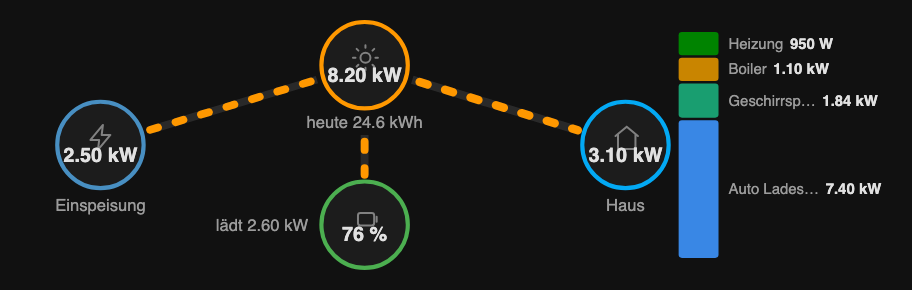
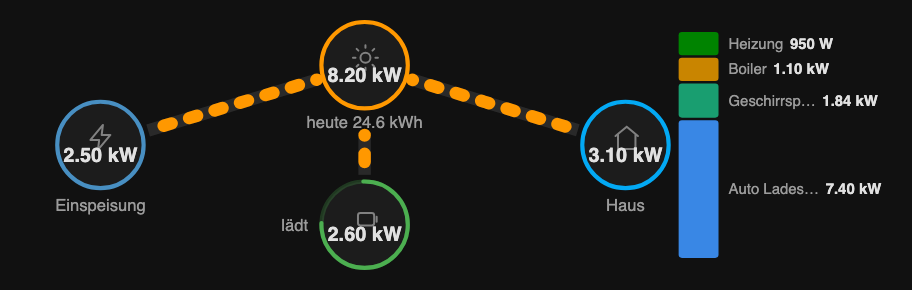
v0.4.0: battery SOC ring gauge, PV auto-dim, configurable line boldness
- Battery ring is now the SOC gauge: arc drains counter-clockwise from
  12 o'clock over a faint base track; center shows charge/discharge W,
  side label just the direction word — no percentage displayed
- PV node dims to 30% below pv_threshold (default 50 W), daily yield
  stays readable
- New line_boldness option (1-5, default 2): max width 6+(b-1)*1.5 px,
  width and dash speed saturate at 5000/b W (default is bolder than the
  old fixed curve)
- flow_threshold (default 25 W) and pv_threshold now config options
- All four new options in the GUI editor

Changed region(s): [[0.2149, 0.4345, 0.4605, 0.8379], [0.4298, 0.2483, 0.6447, 0.4655], [0.1535, 0.2483, 0.3684, 0.4655]]

diff --git a/compact-power-flow-card.js b/compact-power-flow-card.js
@@ -31,14 +31,21 @@
  *                          include: [{entity_id: "sensor.*_pwr*"}]
  *                          exclude: [{state: "< 1"}]
  *   max_consumers:       optional; 1-6 segments in the column (default 4)
+ *   line_boldness:       optional; 1-5 (default 2) — how aggressively flow
+ *                        line thickness (and dash speed) react to power:
+ *                        max width 6+(b-1)*1.5 px, saturating at 5000/b W
+ *   flow_threshold:      optional; W below which a flow counts as idle
+ *                        (default 25; also gates the battery direction word)
+ *   pv_threshold:        optional; W below which the PV node dims (default 50)
  *   labels:              optional map to override labels, e.g.
  *     daily_yield: "today" / grid_import: "import"
+ *
+ * The battery ring doubles as the SOC gauge: full circle = 100 %, the arc
+ * drains counter-clockwise from 12 o'clock; the ring center shows the
+ * current charge/discharge power (no percentage is displayed).
  */
 
-const VERSION = "0.3.1";
-
-// Flows below this many watts count as "not flowing".
-const THRESHOLD = 25;
+const VERSION = "0.4.0";
 
 // Consumer-column palette, shared with power-pie-card (CVD-safe hue order —
 // do not reorder).
@@ -208,6 +215,15 @@ class CompactPowerFlowCard extends HTMLElement {
     this._config.max_consumers = Math.min(
       Math.max(Number.isFinite(config.max_consumers) ? config.max_consumers : 4, 1), 6
     );
+    this._config.line_boldness = Math.min(
+      Math.max(Number.isFinite(config.line_boldness) ? config.line_boldness : 2, 1), 5
+    );
+    this._config.flow_threshold =
+      Number.isFinite(config.flow_threshold) && config.flow_threshold >= 0
+        ? config.flow_threshold : 25;
+    this._config.pv_threshold =
+      Number.isFinite(config.pv_threshold) && config.pv_threshold >= 0
+        ? config.pv_threshold : 50;
     this._labels = { ...DEFAULT_LABELS, ...(config.labels || {}) };
     const f = config.filter || {};
     this._include = (f.include || []).map(compileRule);
@@ -297,7 +313,10 @@ class CompactPowerFlowCard extends HTMLElement {
       .map(
         ([k, n]) => `
         <g class="node" id="node-${k}" transform="translate(${n.cx},${n.cy})">
-          <circle class="ring ${k}" r="${n.r}"/>
+          ${k === "battery"
+            ? `<circle class="ring battery base" r="${n.r}"/>
+          <circle class="ring battery arc" id="soc-arc" r="${n.r}" pathLength="100" transform="rotate(-90)"/>`
+            : `<circle class="ring ${k}" r="${n.r}"/>`}
           <path class="icon" d="${ICONS[k]}" transform="translate(-9,-14) scale(0.75)"/>
           <text class="value" id="val-${k}" y="10" text-anchor="middle"></text>
           <text class="sub" id="sub-${k}" ${SUB_POS[k]}></text>
@@ -326,6 +345,11 @@ class CompactPowerFlowCard extends HTMLElement {
         .ring.grid { stroke: var(--energy-grid-consumption-color, #488fc2); }
         .ring.house { stroke: var(--primary-color, #03a9f4); }
         .ring.battery { stroke: var(--energy-battery-out-color, #4caf50); }
+        .ring.battery.base { stroke-opacity: .25; }
+        .ring.battery.arc { fill: none; stroke-linecap: round;
+                            transition: stroke-dasharray .3s, opacity .3s; }
+        .node .ring, .node .icon, .node .value { transition: opacity .3s; }
+        .node.idle .ring, .node.idle .icon, .node.idle .value { opacity: .3; }
         .icon { fill: none; stroke: var(--secondary-text-color, #727272);
                 stroke-width: 1.6; stroke-linecap: round; stroke-linejoin: round;
                 opacity: .8; transform-box: fill-box; }
@@ -409,21 +433,26 @@ class CompactPowerFlowCard extends HTMLElement {
 
   _update(consumers, dark) {
     const $ = (id) => this.shadowRoot.getElementById(id);
+    const thr = this._config.flow_threshold;
+    // boldness b: max width 6..12px, saturation power 5kW..1kW
+    const b = this._config.line_boldness;
+    const maxW = 6 + (b - 1) * 1.5;
+    const refP = 5000 / b;
     const flows = {};
     for (const f of FLOW_DEFS) {
       const w = this._num(f.key) || 0;
       flows[f.key] = w;
       const flowEl = $(`flow-${f.key}`);
       const railEl = $(`rail-${f.key}`);
-      if (w > THRESHOLD) {
-        // thickness ~ sqrt(power), 1.5px at the threshold up to 6px at >= 5 kW
-        const width = 1.5 + 4.5 * Math.sqrt(Math.min(1, w / 5000));
+      if (w > thr) {
+        // thickness ~ sqrt(power), 1.5px at the threshold up to maxW at refP
+        const width = 1.5 + (maxW - 1.5) * Math.sqrt(Math.min(1, w / refP));
         flowEl.classList.add("active");
         railEl.classList.add("active");
         flowEl.style.strokeWidth = width.toFixed(2);
         railEl.style.strokeWidth = width.toFixed(2);
-        // faster dashes for bigger flows: 4s at ~50 W down to 0.8s at >= 5 kW
-        const dur = Math.max(0.8, 4 - 3.2 * Math.min(1, w / 5000));
+        // faster dashes for bigger flows, saturating together with thickness
+        const dur = Math.max(0.8, 4 - 3.2 * Math.min(1, w / refP));
         flowEl.style.animationDuration = `${dur.toFixed(2)}s`;
       } else {
         flowEl.classList.remove("active");
@@ -447,11 +476,18 @@ class CompactPowerFlowCard extends HTMLElement {
       this._num("pv_to_grid") > gridNet
         ? this._labels.grid_export
         : this._labels.grid_import;
-    $("val-battery").textContent = soc === null ? "–" : `${Math.round(soc)} %`;
+    $("val-battery").textContent = this._fmtW(Math.abs(batNet));
     $("sub-battery").textContent =
-      Math.abs(batNet) > THRESHOLD
-        ? `${batNet > 0 ? this._labels.battery_charge : this._labels.battery_discharge} ${this._fmtW(Math.abs(batNet))}`
+      Math.abs(batNet) > thr
+        ? (batNet > 0 ? this._labels.battery_charge : this._labels.battery_discharge)
         : this._labels.battery;
+    const socArc = $("soc-arc");
+    const socPct = soc === null ? 0 : Math.min(100, Math.max(0, soc));
+    socArc.style.strokeDasharray = `${socPct.toFixed(1)} ${(100 - socPct).toFixed(1)}`;
+    // a zero-length dash with round caps would still paint a dot at 12 o'clock
+    socArc.style.opacity = socPct > 0 ? "1" : "0";
+
+    $("node-pv").classList.toggle("idle", (pv || 0) < this._config.pv_threshold);
 
     const yieldRaw = this._num("daily_yield");
     if (yieldRaw !== null) {
@@ -501,8 +537,14 @@ const EDITOR_LABELS = {
   filter_min: "Hide consumers below (W)",
   filter: "Consumer filter (advanced — too complex for the simple fields)",
   max_consumers: "Max consumers in the column",
+  line_boldness: "Line boldness (1 subtle … 5 aggressive)",
+  flow_threshold: "Hide flow lines below (W)",
+  pv_threshold: "Dim PV node below (W)",
   labels: "Label overrides (advanced)",
 };
+
+// Simple numeric options managed 1:1 between config and editor form.
+const NUMBER_KEYS = ["max_consumers", "line_boldness", "flow_threshold", "pv_threshold"];
 
 class CompactPowerFlowCardEditor extends HTMLElement {
   constructor() {
@@ -594,6 +636,9 @@ class CompactPowerFlowCardEditor extends HTMLElement {
     }
     schema.push(
       { name: "max_consumers", selector: { number: { min: 1, max: 6, step: 1, mode: "box" } } },
+      { name: "line_boldness", selector: { number: { min: 1, max: 5, step: 0.5, mode: "box" } } },
+      { name: "flow_threshold", selector: { number: { min: 0, step: 1, mode: "box", unit_of_measurement: "W" } } },
+      { name: "pv_threshold", selector: { number: { min: 0, step: 1, mode: "box", unit_of_measurement: "W" } } },
       { name: "labels", selector: { object: {} } },
     );
 
@@ -606,7 +651,7 @@ class CompactPowerFlowCardEditor extends HTMLElement {
     } else if (c.filter !== undefined) {
       data.filter = c.filter;
     }
-    if (c.max_consumers !== undefined) data.max_consumers = c.max_consumers;
+    for (const k of NUMBER_KEYS) if (c[k] !== undefined) data[k] = c[k];
     if (c.labels !== undefined) data.labels = c.labels;
 
     this._form.schema = schema;
@@ -635,8 +680,10 @@ class CompactPowerFlowCardEditor extends HTMLElement {
     } else if (d.filter !== undefined) {
       cfg.filter = d.filter;
     }
-    if (d.max_consumers === undefined || d.max_consumers === "") delete cfg.max_consumers;
-    else cfg.max_consumers = d.max_consumers;
+    for (const k of NUMBER_KEYS) {
+      if (d[k] === undefined || d[k] === "") delete cfg[k];
+      else cfg[k] = d[k];
+    }
     if (d.labels === undefined || (d.labels && !Object.keys(d.labels).length)) delete cfg.labels;
     else cfg.labels = d.labels;
     this._config = cfg;

diff --git a/README.md b/README.md
@@ -17,11 +17,12 @@ roughly a quarter of the space.
   relevant entity actually changes state. Flow animation is pure CSS.
 - **Theme-aware** — uses HA's `--energy-*-color` and text/background theme
   variables with sensible fallbacks; adapts to light/dark automatically.
-- **Lines only when power flows** — flows below 25 W are fully hidden, so an
-  idle system shows just the nodes.
-- Flow **thickness scales with power** (1.5 px near the threshold up to 6 px at
-  ≥ 5 kW, square-root scaled) and dash speed does too (4 s at ~50 W down to
-  0.8 s at ≥ 5 kW).
+- **Lines only when power flows** — flows below `flow_threshold` (default
+  25 W) are fully hidden, so an idle system shows just the nodes.
+- Flow **thickness and dash speed scale with power** (square-root scaled), with
+  a configurable `line_boldness` factor for how aggressively they react.
+- **Battery ring = SOC gauge** — the arc drains counter-clockwise as the
+  battery empties; the center shows charge/discharge power.
 - **Top-consumers column** — auto-discovers your biggest current loads via an
   include/exclude filter ([power-pie-card](https://github.com/stefanschaedeli/power-pie-card)
   semantics), stacks them proportionally, tap opens more-info.
@@ -70,6 +71,10 @@ filter:                                      # optional: enables the consumers c
   exclude:
     - state: "< 1"
 max_consumers: 4                             # optional, 1-6 segments (default 4)
+line_boldness: 2                             # optional, 1-5 (default 2): how hard
+                                             #   line width/speed react to power
+flow_threshold: 25                           # optional, W: flows below are hidden
+pv_threshold: 50                             # optional, W: PV node dims below
 ```
 
 ### Top-consumers column
@@ -104,8 +109,16 @@ labels:
 
 - **Grid node** shows whichever is larger of import/export with the matching
   label.
-- **Battery node** shows SOC inside the ring; charging/discharging power (net
-  of the charge and discharge sensors) appears beside it when above 25 W.
+- **Battery node**: the ring itself is the SOC gauge — full circle at 100 %,
+  the arc drains counter-clockwise from 12 o'clock, the empty part stays as a
+  faint track. The center shows the current charge/discharge power (net of the
+  charge and discharge sensors); the side label shows the direction
+  (`lädt`/`entlädt`). No percentage is displayed.
+- **PV node** dims to 30 % opacity below `pv_threshold` (default 50 W); the
+  daily-yield line stays fully readable.
+- **Line boldness**: width and dash speed saturate at `5000 / line_boldness` W
+  with a maximum width of `6 + (line_boldness − 1) × 1.5` px — raise it if
+  your typical flows are small and the default reaction feels too subtle.
 - **Daily yield** replaces the static PV sub-label (`heute 12.4 kWh`) when
   configured.
 - **Unavailable sensors** render as `–` and their flows stay hidden — the card
